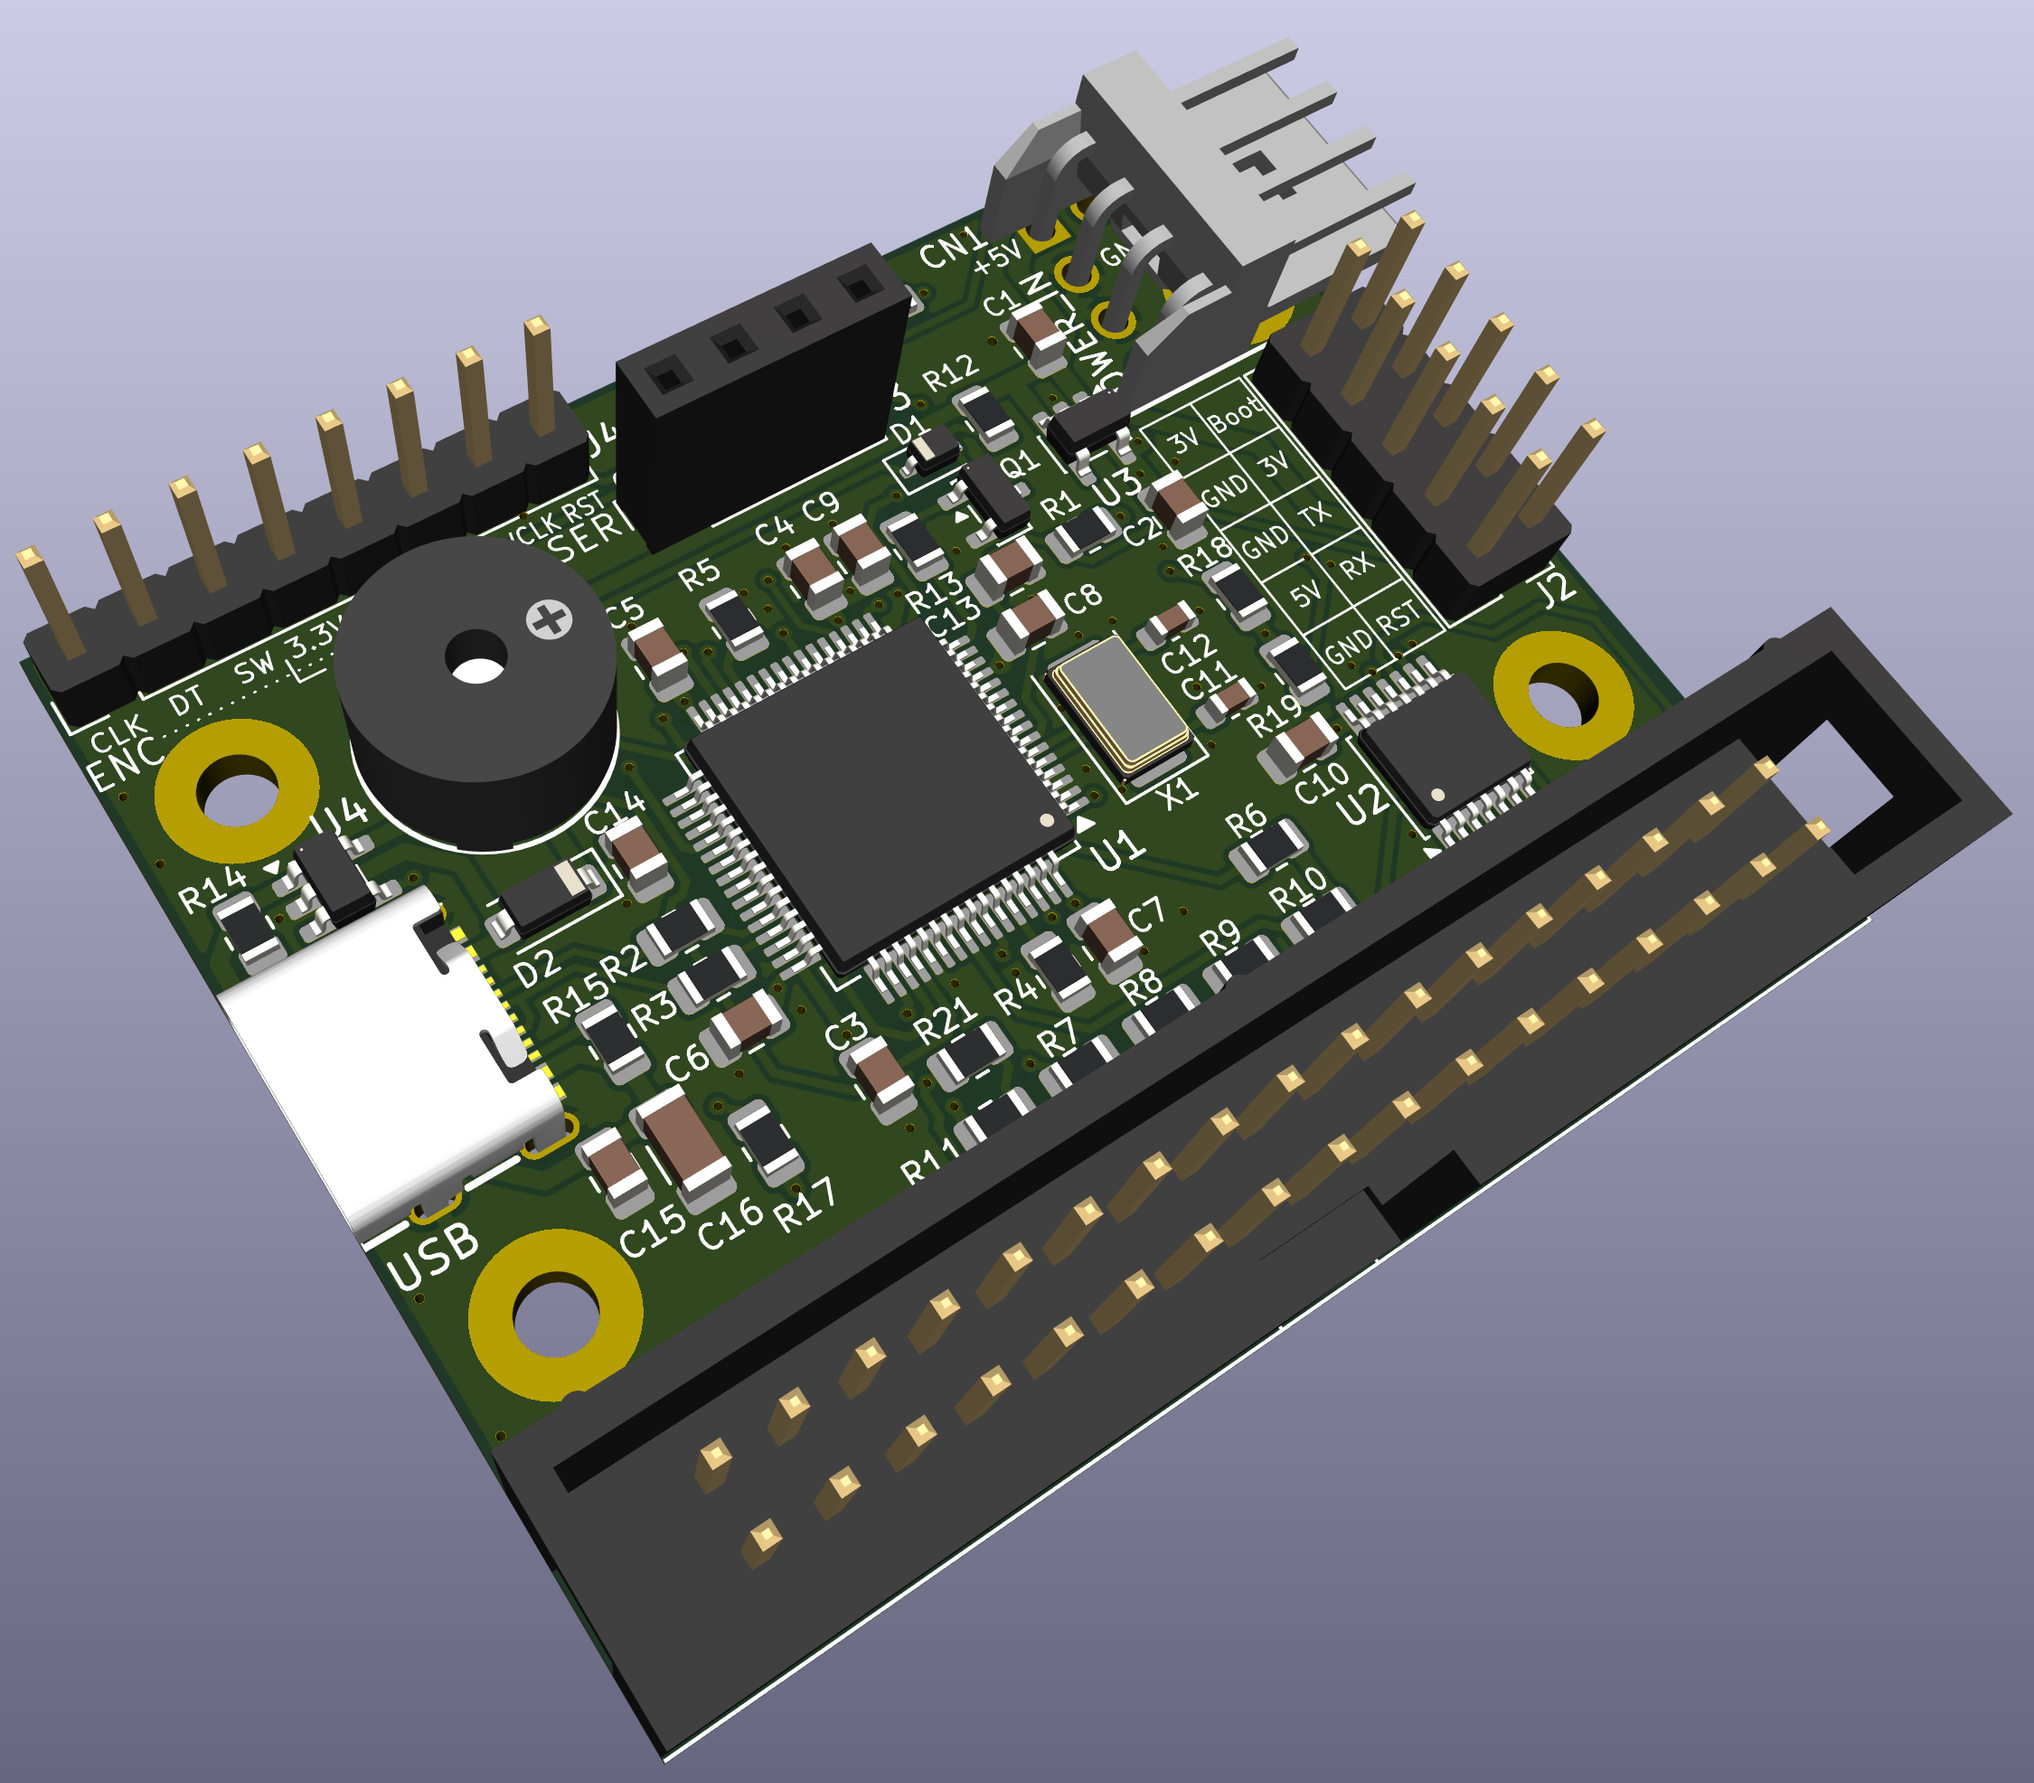
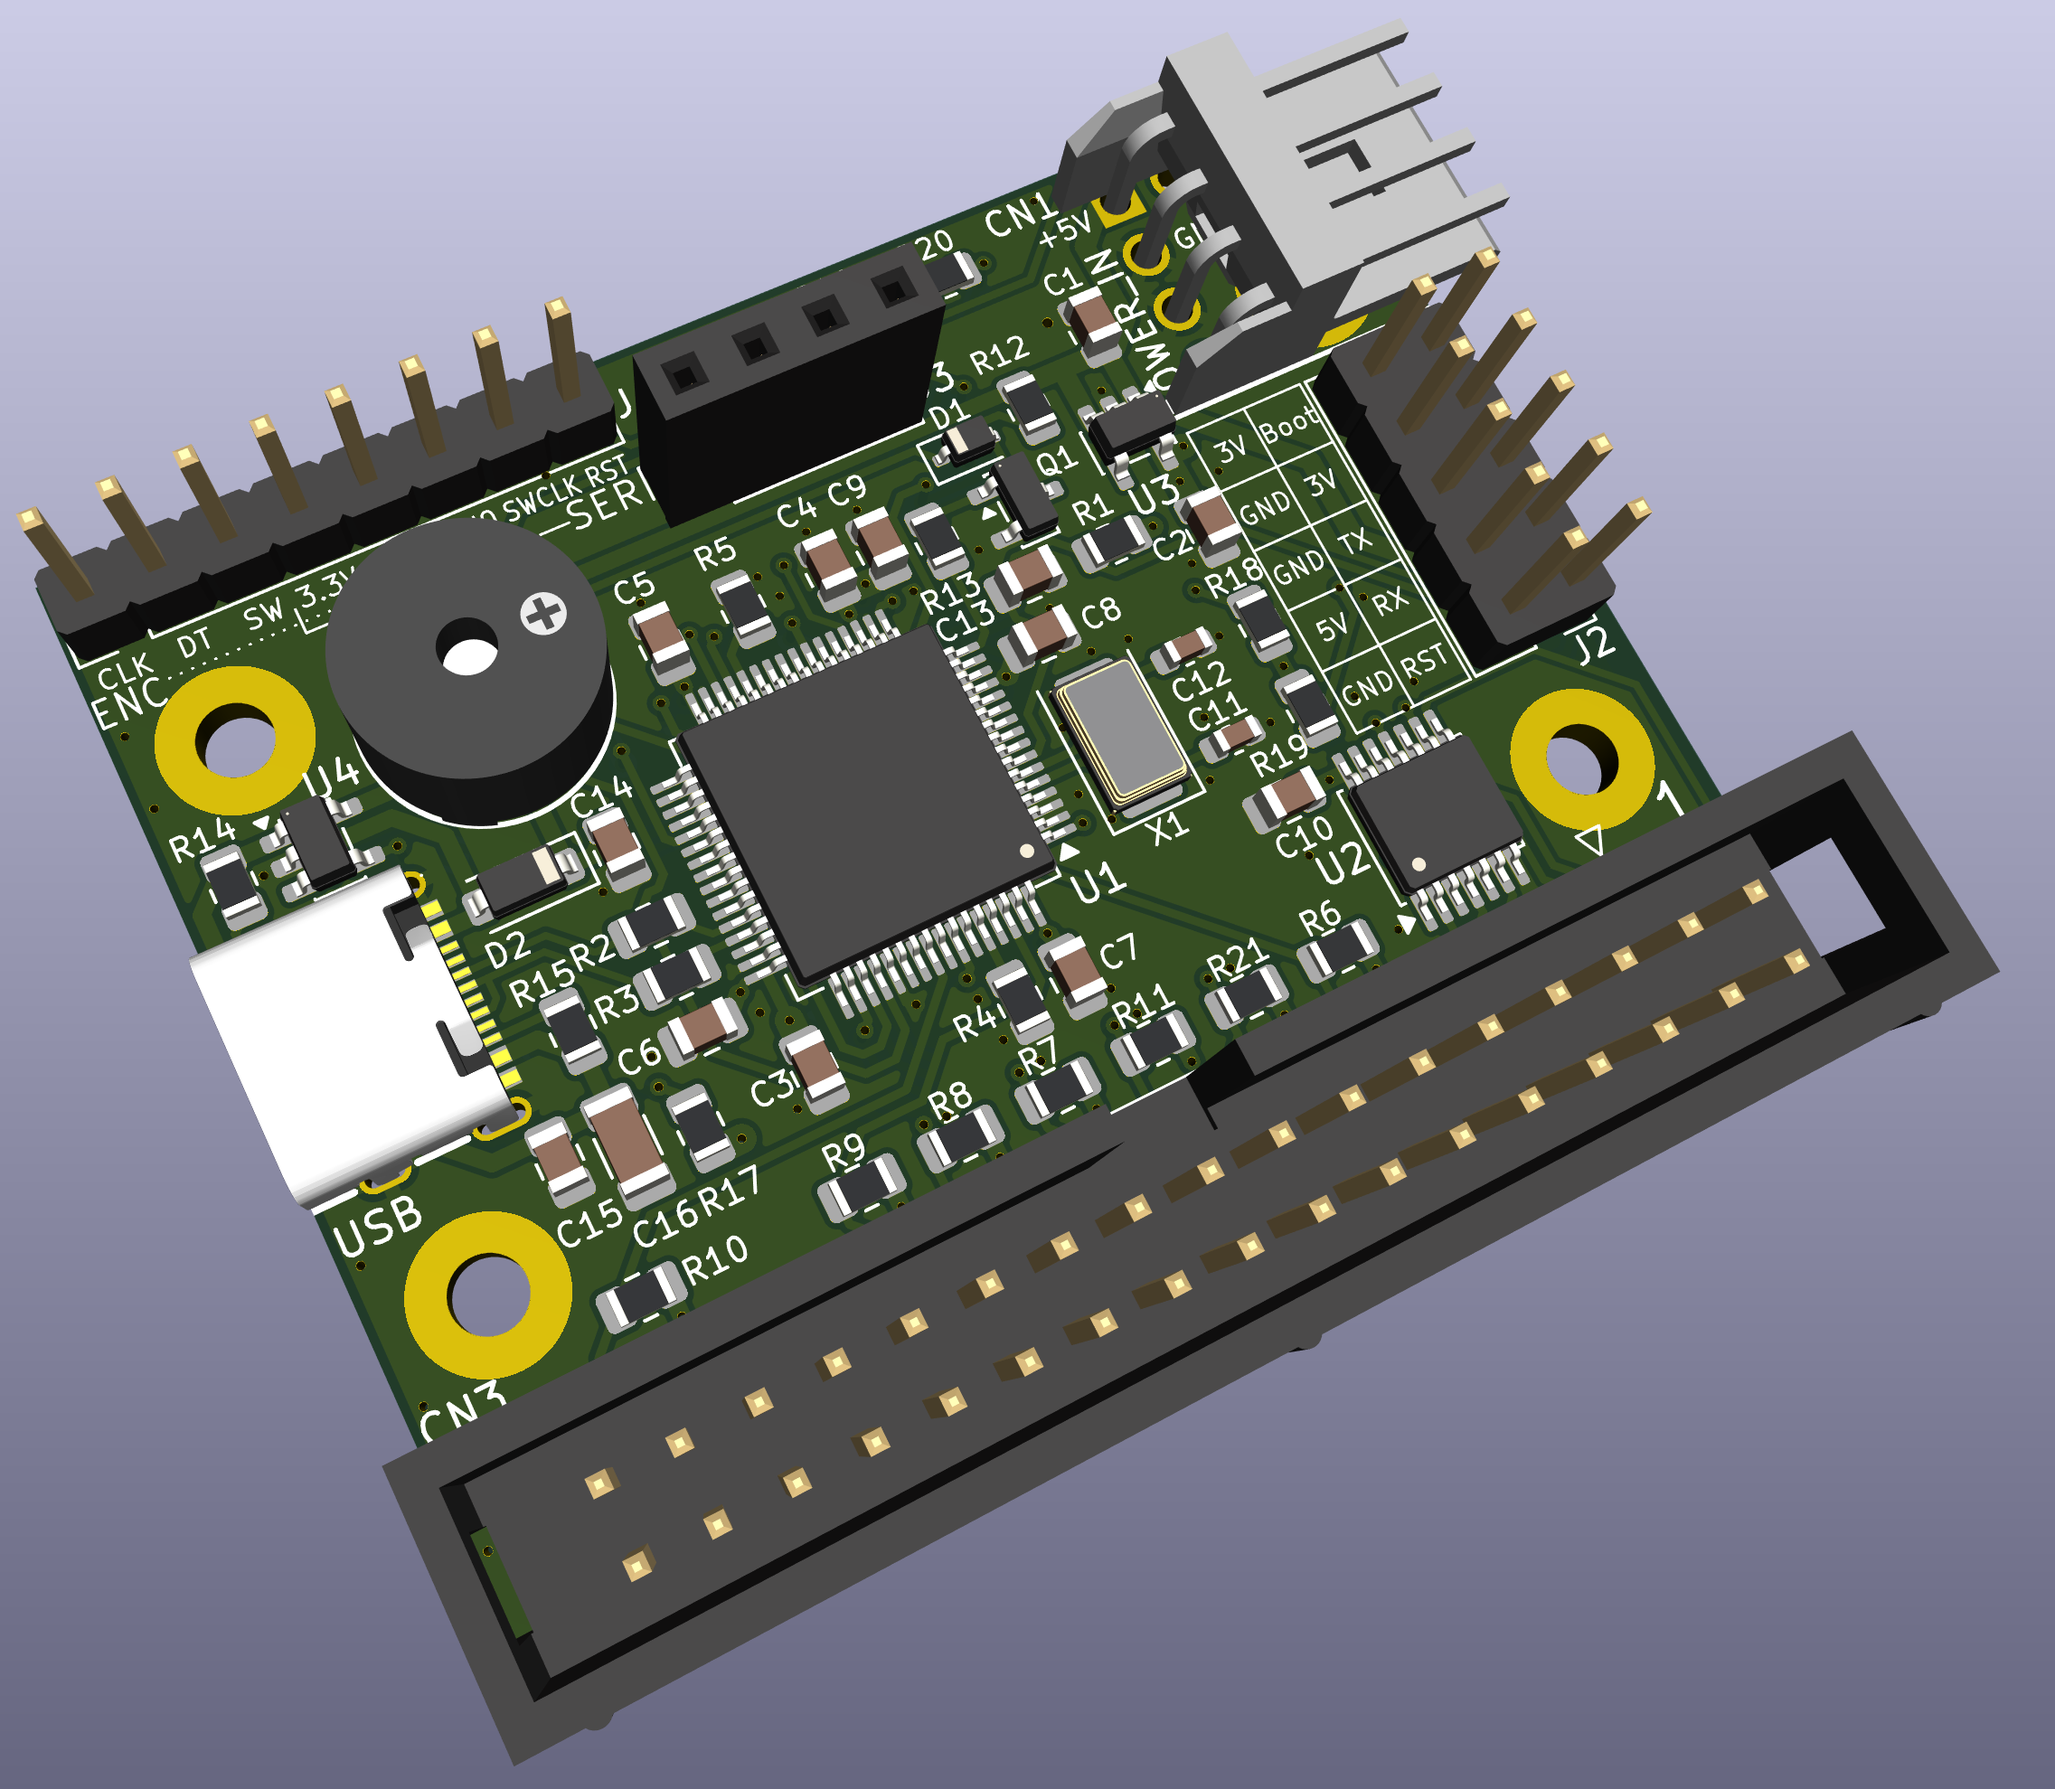
Update readme and images

Changed region(s): [[0.0, 0.0, 0.9956, 0.9899], [0.7778, 0.2165, 0.8089, 0.2475]]

diff --git a/README.md b/README.md
@@ -1,5 +1,7 @@
 # Nano-Tek
 
+**Note: This branch uses a PCB with the 34 pin floppy header is rotated 180 degrees to allow better fitment in some Amiga models. Everything else is the same with the main branch.**
+
 A tiny, modern reimagining of the classic **Gotek** floppy-disk-drive emulator. Nano-Tek keeps the full feature set of a Gotek-style FDD emulator but packs it onto a board that is a fraction of the size, hence the name *Nano*-Tek.
 
 <p align="center">
